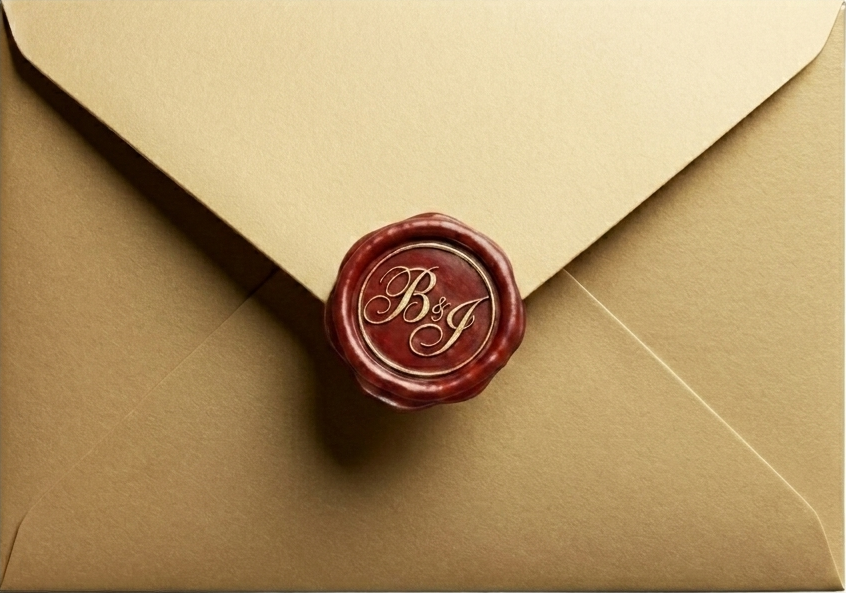
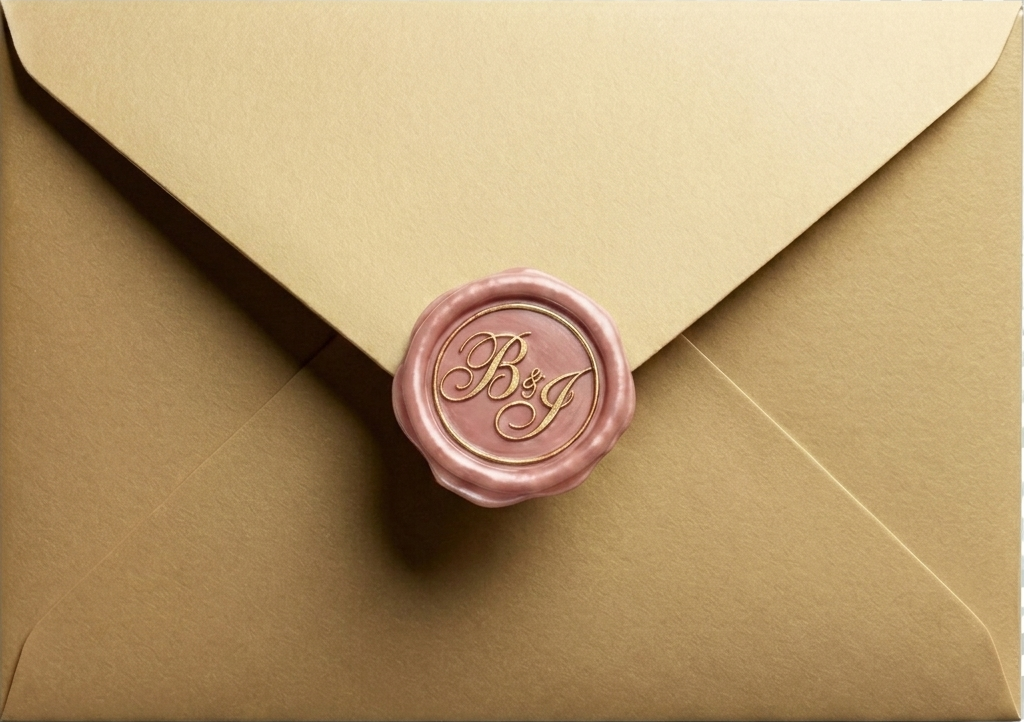
Add files via upload

diff --git a/styles.css b/styles.css
@@ -348,6 +348,7 @@ input:checked+.slider:before {
 /* Venue Section — Full screen with Islamic arch background */
 .venue-section {
     min-height: 100vh;
+    position: relative;
     display: flex;
     flex-direction: column;
     justify-content: flex-start;
@@ -415,7 +416,9 @@ input:checked+.slider:before {
     color: #ffffff;
 }
 
-.venue-section.night-mode .venue-name {
+.venue-section.night-mode .venue-name,
+.venue-section.night-mode .venue-time,
+.venue-section.night-mode .no-kids-note {
     color: var(--text-light);
 }
 
@@ -427,6 +430,16 @@ input:checked+.slider:before {
 .venue-name {
     font-size: 1.3rem;
     color: var(--text-dark);
+}
+
+.venue-time {
+    font-size: 1.1rem;
+    color: var(--text-dark);
+}
+
+.venue-time .time-bold {
+    font-size: 1.5rem;
+    font-weight: bold;
 }
 
 .btn-maps {
@@ -447,6 +460,18 @@ input:checked+.slider:before {
     background: var(--sage-green);
     color: white;
     border-color: var(--sage-green);
+}
+
+.no-kids-note {
+    position: absolute;
+    bottom: 10vh;
+    left: 0;
+    right: 0;
+    text-align: center;
+    font-size: 0.85rem;
+    font-style: italic;
+    color: var(--text-dark);
+    padding: 0 20px;
 }
 
 /* Mobile Responsive Adjustments */
@@ -474,5 +499,9 @@ input:checked+.slider:before {
     }
     .btn-maps {
         padding: 14px 35px; /* slightly larger tap target for mobile */
+    }
+    .toggle-container {
+        top: 15px;
+        right: 15px;
     }
 }

diff --git a/index.html b/index.html
@@ -104,9 +104,11 @@
             </div>
             <div class="venue-details">
                 <p class="venue-name">Al-Aley Al-Azim Mosque, Almaza</p>
+                <p class="venue-time">at <span class="time-bold">8:00 PM</span></p>
                 <a href="https://maps.google.com/maps?vet=10CAAQoqAOahcKEwjI7e2p15aVAxUAAAAAHQAAAAAQIg..i&sca_esv=86ff06cca33c5a35&pvq=Cg0vZy8xMXg3aHZocF96&fvr=1&cs=1&um=1&ie=UTF-8&fb=1&gl=eg&sa=X&ftid=0x145815002cc2406f:0xe4fbaa77b1a168f4"
                     class="btn-maps" target="_blank" rel="noopener noreferrer">Open Maps</a>
             </div>
+            <p class="no-kids-note">We wish your little ones a good night's sleep.</p>
         </section>
 
     </div>